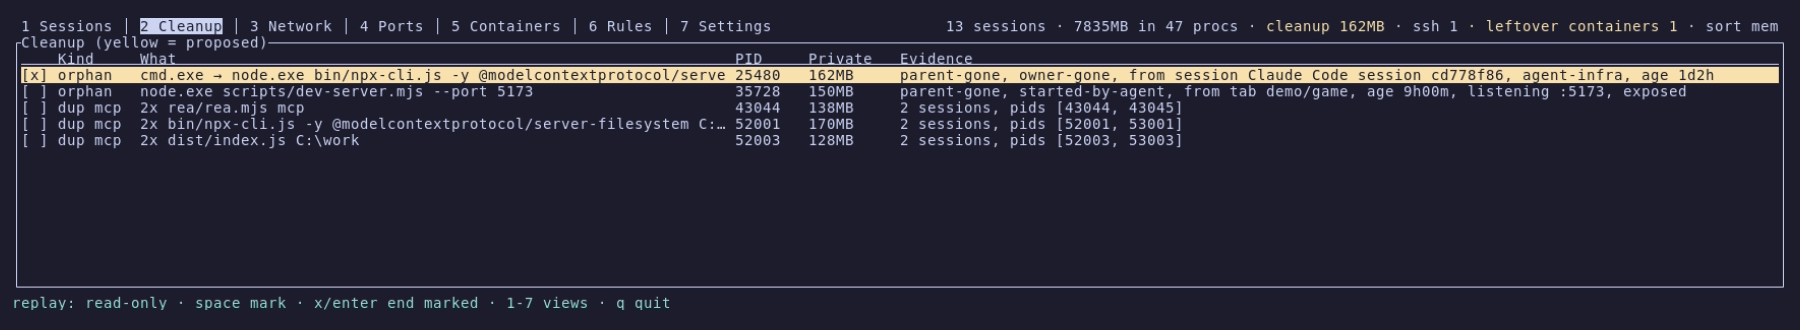
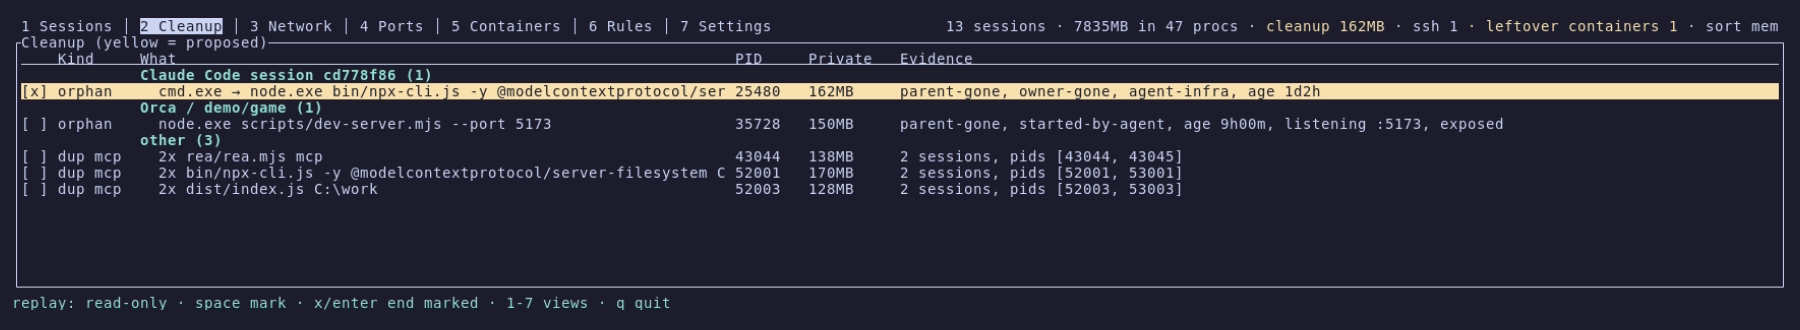
Show detached sessions and origin headings in the README (#34)
The highlights mention sessions an agent started in the background, and the
Cleanup and Ports screens and the demo are re-recorded with their origin
headings. Ports no longer repeats an orphan's tab in the Owner column, since
the heading above names it.

Changed region(s): [[0.0, 0.1818, 0.9956, 0.6061]]

diff --git a/crates/app/src/tui.rs b/crates/app/src/tui.rs
@@ -701,19 +701,7 @@ impl App {
                     }
                     PortOwner::Orphan(root) => {
                         let name = m.procs.get(&root).map(|r| r.name.as_str()).unwrap_or("?");
-                        match m
-                            .orphans
-                            .iter()
-                            .find(|o| o.pid == root)
-                            .and_then(|o| o.origin.as_deref())
-                        {
-                            Some(tab) => tf!(
-                                lang,
-                                "orphan {name} {root} · from tab {tab}",
-                                "고아 {name} {root} · 출처 탭 {tab}"
-                            ),
-                            None => tf!(lang, "orphan {name} {root}", "고아 {name} {root}"),
-                        }
+                        tf!(lang, "orphan {name} {root}", "고아 {name} {root}")
                     }
                     PortOwner::Other => role_label(m, p.pid).to_string(),
                 };

diff --git a/README.ko.md b/README.ko.md
@@ -30,7 +30,9 @@ agentlens는 모든 프로세스에 대해 **누구의 것인가, 그 주인이 
 
 - **누구의 프로세스인지 압니다.** [에이전트 45종](#지원-에이전트와-호스트)(Claude Code, Codex, opencode, Gemini CLI, Copilot CLI, Aider,
   Goose …)에 대해 호스트 → 탭 → 세션 → 프로세스 트리를 만듭니다. 지원 호스트는 Orca, Paseo, VS Code, Cursor,
-  JetBrains, Windows Terminal, iTerm2, Ghostty, cmux, tmux, herdr, SSH 로그인, WSL 등입니다.
+  JetBrains, Windows Terminal, iTerm2, Ghostty, cmux, tmux, herdr, SSH 로그인, WSL 등입니다. 에이전트가
+  백그라운드로 띄운 세션(WMI나 `setsid`로 띄운 데몬)은 *Detached from <에이전트>*로 묶고, 작업 폴더와 띄운 탭을
+  함께 보여 줍니다.
 - **이름이 아니라 근거로 잔여 프로세스를 찾습니다.** 세 가지 근거를 씁니다.
   - 계보: 세션 아래에서 본 프로세스를 기억합니다.
   - 출생 기록: 에이전트가 자식에 남기는 세션과 PID를 읽습니다.
@@ -62,7 +64,7 @@ agentlens는 모든 프로세스에 대해 **누구의 것인가, 그 주인이 
 
 CPU%는 시스템 전체를 100으로 계산하고, 하단 줄에는 현재 화면의 단축키가 표시됩니다.
 
-| 정리: 후보와 판정 근거 | 포트: 누가 어디서 대기 중인지 |
+| 정리: 나온 탭별 후보와 판정 근거 | 포트: 누가 어디서 대기 중인지, 탭별로 |
 |---|---|
 | ![정리 화면](docs/images/cleanup.png) | ![포트 화면](docs/images/ports.png) |
 | **네트워크: SSH 연결과 키** | **설정: 정리, 안전, 에이전트 훅** |

diff --git a/README.md b/README.md
@@ -40,7 +40,8 @@ behind from evidence rather than names, and ends them only when it is safe to.
 - **Knows whose process it is.** It builds a host → tab → session → process tree for
   [45 agents](#supported-agents-and-hosts) (Claude Code, Codex, opencode, Gemini CLI, Copilot CLI, Aider, Goose, …). Supported hosts include
   Orca, Paseo, VS Code, Cursor, JetBrains, Windows Terminal, iTerm2, Ghostty, cmux, tmux, herdr, SSH logins
-  and WSL.
+  and WSL. A session an agent started in the background (a daemon launched through WMI or `setsid`)
+  is listed as *Detached from <agent>*, with the folder it works in and the tab it came from.
 - **Finds leftovers by evidence, not by name.** It records what it saw under a session (lineage). It
   reads the session and PID that agents write into everything they start (birth record), and on
   Windows it checks whether anyone can still talk to a stdio server. Every candidate shows the
@@ -72,7 +73,7 @@ counts the whole machine as 100, and the footer lists the keys of the current vi
 
 ![Sessions view](docs/images/sessions.png)
 
-| Cleanup: candidates and their evidence | Ports: who listens where |
+| Cleanup: candidates by the tab they came from, with evidence | Ports: who listens where, by tab |
 |---|---|
 | ![Cleanup view](docs/images/cleanup.png) | ![Ports view](docs/images/ports.png) |
 | **Network: SSH connections and keys** | **Settings: cleanup, safety, agent hooks** |
